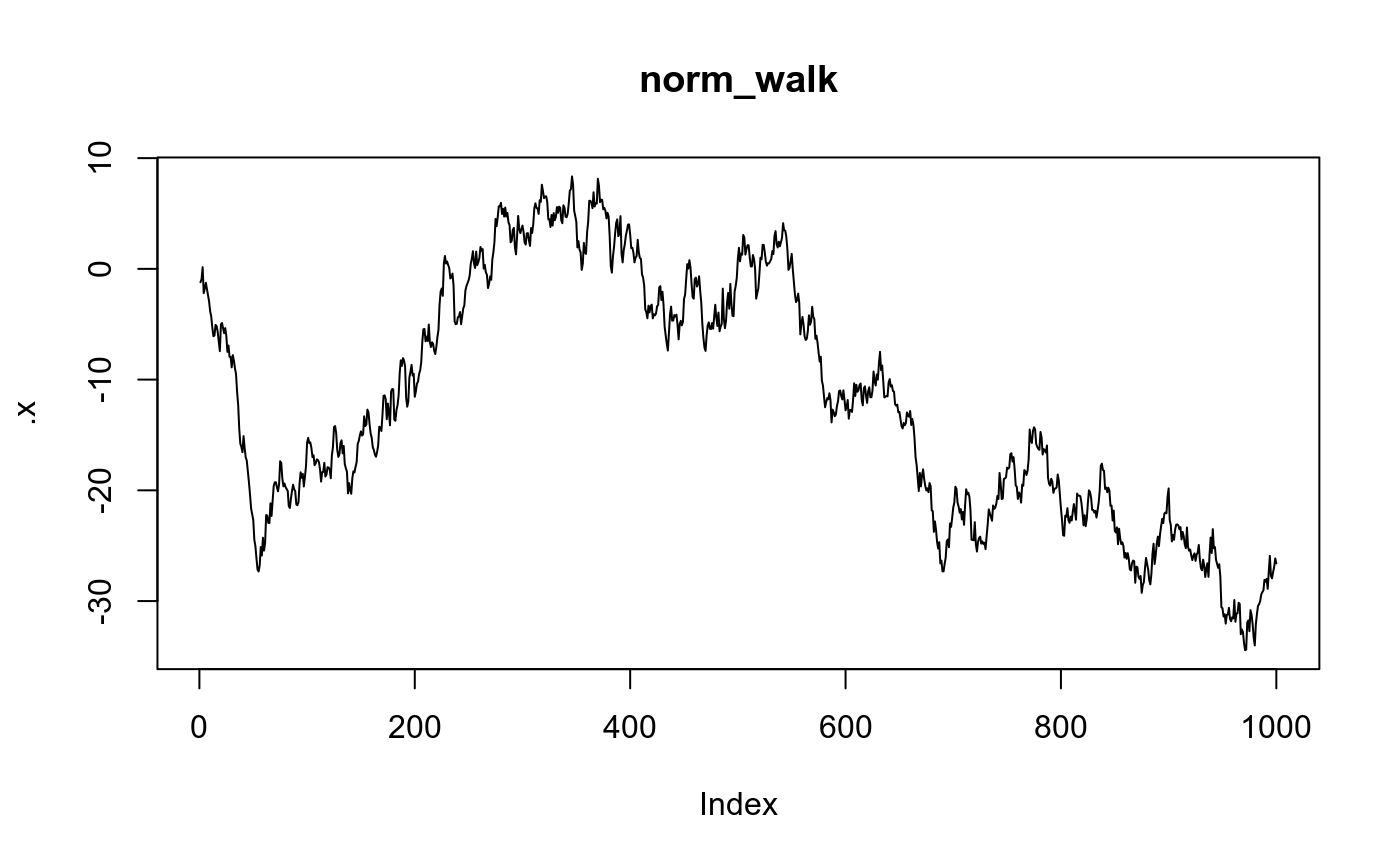
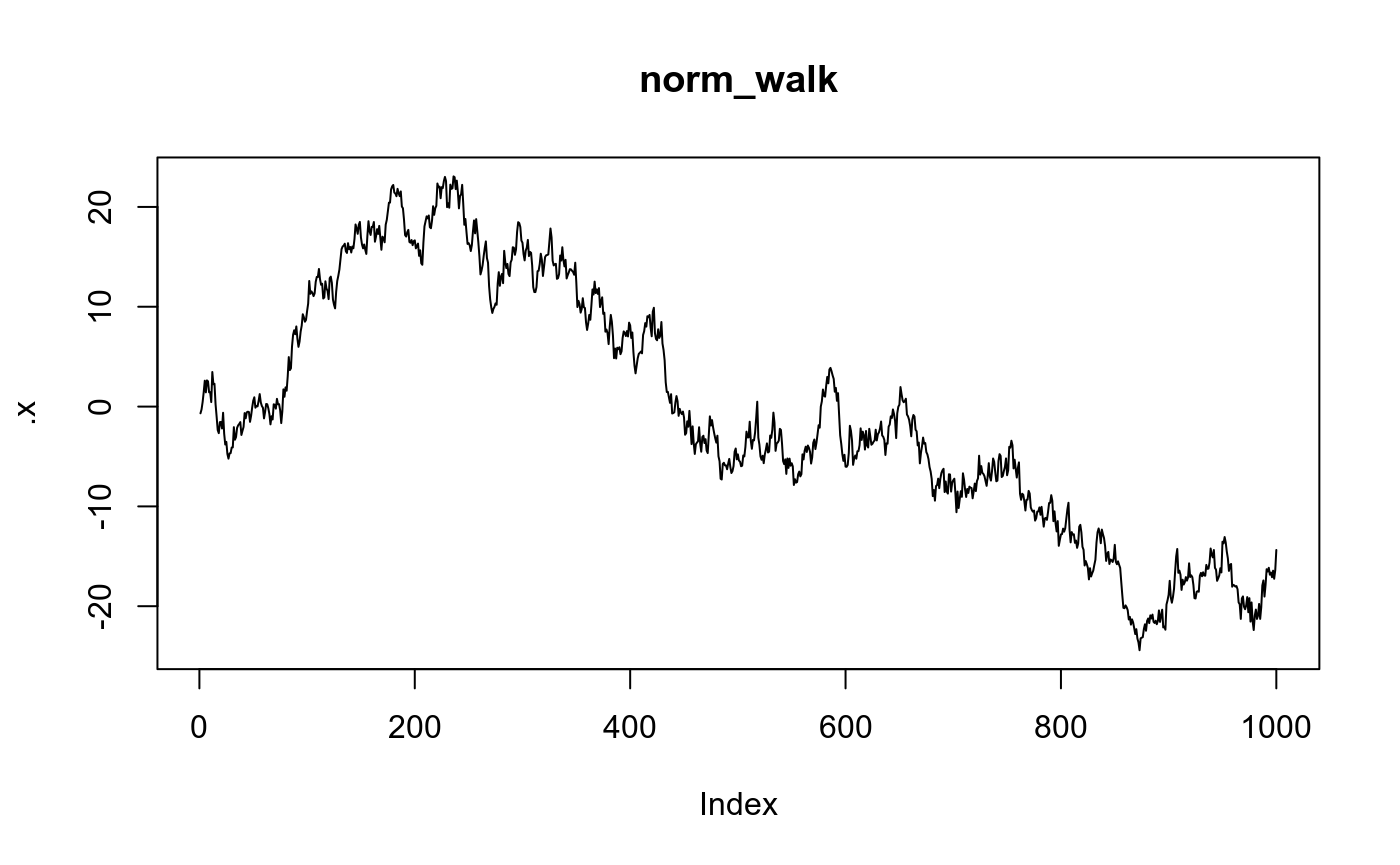
changes

diff --git a/docs/articles/Analysis_with_complex_networks.html b/docs/articles/Analysis_with_complex_networks.html
@@ -87,17 +87,18 @@
 
     
     
-<div class="sourceCode"><pre class="sourceCode r"><code class="sourceCode r"><span class="kw"><a href="https://www.rdocumentation.org/packages/base/topics/library">library</a></span>(tidyverse)
-<span class="co">#&gt; ── Attaching packages ────────────────────────────────────────────────────── tidyverse 1.2.1 ──</span>
-<span class="co">#&gt; ✔ ggplot2 3.1.0       ✔ purrr   0.3.2  </span>
-<span class="co">#&gt; ✔ tibble  2.1.1       ✔ dplyr   0.8.0.1</span>
-<span class="co">#&gt; ✔ tidyr   0.8.3       ✔ stringr 1.4.0  </span>
-<span class="co">#&gt; ✔ readr   1.3.1       ✔ forcats 0.4.0</span>
-<span class="co">#&gt; ── Conflicts ───────────────────────────────────────────────────────── tidyverse_conflicts() ──</span>
-<span class="co">#&gt; ✖ dplyr::filter() masks stats::filter()</span>
-<span class="co">#&gt; ✖ dplyr::lag()    masks stats::lag()</span>
-<span class="kw"><a href="https://www.rdocumentation.org/packages/base/topics/library">library</a></span>(tsar)
-<span class="kw"><a href="https://www.rdocumentation.org/packages/base/topics/Random">set.seed</a></span>(<span class="dv">1234</span>)</code></pre></div>
+<div class="sourceCode"><pre class="sourceCode r"><code class="sourceCode r"><span class="kw"><a href="https://www.rdocumentation.org/packages/base/topics/library">library</a></span>(tsar)
+<span class="kw"><a href="https://www.rdocumentation.org/packages/base/topics/library">library</a></span>(purrr)
+<span class="kw"><a href="https://www.rdocumentation.org/packages/base/topics/library">library</a></span>(dplyr)
+<span class="co">#&gt; </span>
+<span class="co">#&gt; Dołączanie pakietu: 'dplyr'</span>
+<span class="co">#&gt; Następujące obiekty zostały zakryte z 'package:stats':</span>
+<span class="co">#&gt; </span>
+<span class="co">#&gt;     filter, lag</span>
+<span class="co">#&gt; Następujące obiekty zostały zakryte z 'package:base':</span>
+<span class="co">#&gt; </span>
+<span class="co">#&gt;     intersect, setdiff, setequal, union</span>
+<span class="kw"><a href="https://www.rdocumentation.org/packages/base/topics/Random">set.seed</a></span>(<span class="dv">8314</span>)</code></pre></div>
 <div class="sourceCode"><pre class="sourceCode r"><code class="sourceCode r">norm_walk &lt;-<span class="st"> </span><span class="kw"><a href="https://www.rdocumentation.org/packages/base/topics/cumsum">cumsum</a></span>(<span class="kw"><a href="https://www.rdocumentation.org/packages/stats/topics/Normal">rnorm</a></span>(<span class="dv">1000</span>))
 cauchy_walk &lt;-<span class="st"> </span><span class="kw"><a href="https://www.rdocumentation.org/packages/base/topics/cumsum">cumsum</a></span>(<span class="kw"><a href="https://www.rdocumentation.org/packages/stats/topics/Cauchy">rcauchy</a></span>(<span class="dv">1000</span>, <span class="dt">location =</span> <span class="dv">0</span>, <span class="dt">scale =</span> <span class="fl">0.1</span>))
 periodic_series &lt;-<span class="st"> </span><span class="kw"><a href="https://www.rdocumentation.org/packages/base/topics/Trig">sin</a></span>(<span class="dv">1</span><span class="op">:</span><span class="dv">1000</span><span class="op">/</span><span class="dv">50</span>) <span class="op">+</span>
@@ -106,7 +107,7 @@ periodic_series &lt;-<span class="st"> </span><span class="kw"><a href="https://
 
 time_series &lt;-<span class="st"> </span><span class="kw"><a href="https://www.rdocumentation.org/packages/base/topics/list">list</a></span>(norm_walk, cauchy_walk, periodic_series)
 time_series_names &lt;-<span class="st"> </span><span class="kw"><a href="https://www.rdocumentation.org/packages/base/topics/list">list</a></span>(<span class="st">"norm_walk"</span>, <span class="st">"cauchy_walk"</span>, <span class="st">"periodic_series"</span>)
-time_series <span class="op">%&gt;%</span><span class="st"> </span><span class="kw">map2</span>(time_series_names, <span class="op">~</span><span class="kw"><a href="https://www.rdocumentation.org/packages/graphics/topics/plot">plot</a></span>(.x, <span class="dt">type =</span> <span class="st">'l'</span>, <span class="dt">main =</span> .y))</code></pre></div>
+time_series <span class="op">%&gt;%</span><span class="st"> </span><span class="kw"><a href="https://purrr.tidyverse.org/reference/map2.html">map2</a></span>(time_series_names, <span class="op">~</span><span class="kw"><a href="https://www.rdocumentation.org/packages/graphics/topics/plot">plot</a></span>(.x, <span class="dt">type =</span> <span class="st">'l'</span>, <span class="dt">main =</span> .y))</code></pre></div>
 <p><img src="Analysis_with_complex_networks_files/figure-html/unnamed-chunk-2-1.png" width="700"><img src="Analysis_with_complex_networks_files/figure-html/unnamed-chunk-2-2.png" width="700"><img src="Analysis_with_complex_networks_files/figure-html/unnamed-chunk-2-3.png" width="700"></p>
 <pre><code>#&gt; [[1]]
 #&gt; NULL
@@ -116,10 +117,43 @@ time_series <span class="op">%&gt;%</span><span class="st"> </span><span class="
 #&gt; 
 #&gt; [[3]]
 #&gt; NULL</code></pre>
-<div class="sourceCode"><pre class="sourceCode r"><code class="sourceCode r">visibility_graphs &lt;-<span class="st"> </span>time_series <span class="op">%&gt;%</span><span class="st"> </span><span class="kw">map</span>(visibility_graph)</code></pre></div>
+<div id="visibility-graph" class="section level2">
+<h2 class="hasAnchor">
+<a href="#visibility-graph" class="anchor"></a>Visibility Graph</h2>
+<div class="sourceCode"><pre class="sourceCode r"><code class="sourceCode r">visibility_graphs &lt;-<span class="st"> </span>time_series <span class="op">%&gt;%</span><span class="st"> </span><span class="kw"><a href="https://purrr.tidyverse.org/reference/map.html">map</a></span>(visibility_graph)</code></pre></div>
+</div>
+<div id="recurrence-graph" class="section level2">
+<h2 class="hasAnchor">
+<a href="#recurrence-graph" class="anchor"></a>Recurrence Graph</h2>
+<div class="sourceCode"><pre class="sourceCode r"><code class="sourceCode r">rec_matrix &lt;-<span class="st"> </span>time_series <span class="op">%&gt;%</span><span class="st"> </span><span class="kw"><a href="https://purrr.tidyverse.org/reference/map.html">map</a></span>(<span class="op">~</span><span class="kw"><a href="../reference/recurrence_matrix.html">recurrence_matrix</a></span>(.x, <span class="dt">eps =</span> <span class="fl">0.3</span>))
+
+rec_matrix <span class="op">%&gt;%</span><span class="st"> </span><span class="kw"><a href="https://purrr.tidyverse.org/reference/map2.html">map2</a></span>(time_series_names,
+                    <span class="op">~</span><span class="kw"><a href="https://www.rdocumentation.org/packages/graphics/topics/image">image</a></span>(.x,
+                           <span class="dt">main =</span> .y,
+                           <span class="dt">col=</span><span class="kw"><a href="https://www.rdocumentation.org/packages/grDevices/topics/gray.colors">gray.colors</a></span>(<span class="dv">2</span>, <span class="dt">start =</span> <span class="dv">1</span>, <span class="dt">end =</span> <span class="dv">0</span>),
+                           <span class="dt">xaxt=</span><span class="st">'n'</span>,
+                           <span class="dt">yaxt=</span><span class="st">'n'</span>))</code></pre></div>
+<p><img src="Analysis_with_complex_networks_files/figure-html/unnamed-chunk-4-1.png" width="700"><img src="Analysis_with_complex_networks_files/figure-html/unnamed-chunk-4-2.png" width="700"><img src="Analysis_with_complex_networks_files/figure-html/unnamed-chunk-4-3.png" width="700"></p>
+<pre><code>#&gt; [[1]]
+#&gt; NULL
+#&gt; 
+#&gt; [[2]]
+#&gt; NULL
+#&gt; 
+#&gt; [[3]]
+#&gt; NULL</code></pre>
+</div>
   </div>
 
   <div class="col-md-3 hidden-xs hidden-sm" id="sidebar">
+        <div id="tocnav">
+      <h2 class="hasAnchor">
+<a href="#tocnav" class="anchor"></a>Contents</h2>
+      <ul class="nav nav-pills nav-stacked">
+<li><a href="#visibility-graph">Visibility Graph</a></li>
+      <li><a href="#recurrence-graph">Recurrence Graph</a></li>
+      </ul>
+</div>
       </div>
 
 </div>

diff --git a/docs/index.html b/docs/index.html
@@ -19,7 +19,7 @@
 <![endif]-->
 </head>
 <body>
-    <div class="container template-home">
+    <div class="container template-article">
       <header><div class="navbar navbar-default navbar-fixed-top" role="navigation">
   <div class="container">
     <div class="navbar-header">
@@ -76,7 +76,12 @@
 
       
       </header><div class="row">
-  <div class="contents col-md-9">
+  <div class="col-md-9 contents">
+    
+
+    
+    
+<!-- README.md is generated from README.Rmd. Please edit that file -->
 <div id="tsar" class="section level1">
 <div class="page-header"><h1 class="hasAnchor">
 <a href="#tsar" class="anchor"></a>tsar</h1></div>
@@ -95,6 +100,8 @@
 <p>This is a basic example which shows you how to solve a common problem:</p>
 <div class="sourceCode"><pre class="sourceCode r"><code class="sourceCode r"><span class="kw"><a href="https://www.rdocumentation.org/packages/base/topics/library">library</a></span>(tsar)
 ## basic example code</code></pre></div>
+<div class="sourceCode"><pre class="sourceCode r"><code class="sourceCode r"><span class="kw"><a href="https://www.rdocumentation.org/packages/graphics/topics/plot">plot</a></span>(<span class="kw"><a href="https://www.rdocumentation.org/packages/stats/topics/Normal">rnorm</a></span>(<span class="dv">100</span>))</code></pre></div>
+<p><img src="reference/figures/README-unnamed-chunk-2-1.png" width="100%"></p>
 </div>
 </div>
   </div>
@@ -123,14 +130,17 @@
 </ul>
 </div>
 
-  <div class="dev-status">
+      <div class="dev-status">
 <h2>Dev status</h2>
 <ul class="list-unstyled">
 <li><a href="https://travis-ci.org/bklimowski/tsar"><img src="https://travis-ci.org/bklimowski/tsar.svg?branch=master" alt="Travis build status"></a></li>
+<li><a href="https://www.tidyverse.org/lifecycle/#experimental"><img src="https://img.shields.io/badge/lifecycle-experimental-orange.svg" alt="Lifecycle: experimental"></a></li>
 </ul>
 </div>
 </div>
+
 </div>
+
 
       <footer><div class="copyright">
   <p>Developed by Bartlomiej Klimowski.</p>

diff --git a/docs/reference/transition_network.html b/docs/reference/transition_network.html
@@ -130,7 +130,14 @@
     
 
     <h2 class="hasAnchor" id="examples"><a class="anchor" href="#examples"></a>Examples</h2>
-    <pre class="examples"><div class='input'><span class='fu'>transition_network</span>(<span class='fu'><a href='https://www.rdocumentation.org/packages/stats/topics/Normal'>rnorm</a></span>(<span class='fl'>100</span>), <span class='fl'>2</span>, <span class='fl'>5</span>)</div><div class='output co'>#&gt; <span class='error'>Error in eval_tidy(xs[[i]], unique_output): nie znaleziono obiektu 'patterns_sequence'</span></div></pre>
+    <pre class="examples"><div class='input'><span class='fu'>transition_network</span>(<span class='fu'><a href='https://www.rdocumentation.org/packages/stats/topics/Normal'>rnorm</a></span>(<span class='fl'>100</span>), <span class='fl'>2</span>, <span class='fl'>5</span>)</div><div class='output co'>#&gt; IGRAPH 15855e9 DN-- 6 34 -- 
+#&gt; + attr: name (v/c), weigth (v/n), weigth (e/n)
+#&gt; + edges from 15855e9 (vertex names):
+#&gt;  [1] 123-&gt;123 123-&gt;132 123-&gt;213 123-&gt;231 123-&gt;312 123-&gt;321 132-&gt;123 132-&gt;132
+#&gt;  [9] 132-&gt;213 132-&gt;231 132-&gt;312 132-&gt;321 213-&gt;123 213-&gt;132 213-&gt;213 213-&gt;231
+#&gt; [17] 213-&gt;312 213-&gt;321 231-&gt;123 231-&gt;132 231-&gt;213 231-&gt;231 231-&gt;312 231-&gt;321
+#&gt; [25] 312-&gt;123 312-&gt;132 312-&gt;213 312-&gt;231 312-&gt;321 321-&gt;123 321-&gt;132 321-&gt;213
+#&gt; [33] 321-&gt;231 321-&gt;312</div></pre>
   </div>
   <div class="col-md-3 hidden-xs hidden-sm" id="sidebar">
     <h2>Contents</h2>

diff --git a/docs/reference/recurrence_network.html b/docs/reference/recurrence_network.html
@@ -130,8 +130,8 @@
     
 
     <h2 class="hasAnchor" id="examples"><a class="anchor" href="#examples"></a>Examples</h2>
-    <pre class="examples"><div class='input'><span class='fu'>recurrence_network</span>(<span class='fu'><a href='https://www.rdocumentation.org/packages/stats/topics/Normal'>rnorm</a></span>(<span class='fl'>100</span>), <span class='fl'>0.5</span>)</div><div class='output co'>#&gt; IGRAPH a2810d7 D--- 100 2622 -- 
-#&gt; + edges from a2810d7:
+    <pre class="examples"><div class='input'><span class='fu'>recurrence_network</span>(<span class='fu'><a href='https://www.rdocumentation.org/packages/stats/topics/Normal'>rnorm</a></span>(<span class='fl'>100</span>), <span class='fl'>0.5</span>)</div><div class='output co'>#&gt; IGRAPH 5f338fa D--- 100 2622 -- 
+#&gt; + edges from 5f338fa:
 #&gt;   [1] 1-&gt; 1 1-&gt; 2 1-&gt; 4 1-&gt; 6 1-&gt; 7 1-&gt; 8 1-&gt;11 1-&gt;14 1-&gt;25 1-&gt;26 1-&gt;28 1-&gt;29
 #&gt;  [13] 1-&gt;33 1-&gt;37 1-&gt;38 1-&gt;40 1-&gt;41 1-&gt;42 1-&gt;54 1-&gt;57 1-&gt;58 1-&gt;63 1-&gt;66 1-&gt;69
 #&gt;  [25] 1-&gt;71 1-&gt;77 1-&gt;79 1-&gt;87 1-&gt;92 1-&gt;93 1-&gt;94 2-&gt; 1 2-&gt; 2 2-&gt; 3 2-&gt; 4 2-&gt; 6

diff --git a/docs/reference/visibility_graph.html b/docs/reference/visibility_graph.html
@@ -130,9 +130,9 @@
     
 
     <h2 class="hasAnchor" id="examples"><a class="anchor" href="#examples"></a>Examples</h2>
-    <pre class="examples"><div class='input'><span class='fu'>visibility_graph</span>(<span class='fu'><a href='https://www.rdocumentation.org/packages/base/topics/c'>c</a></span>(<span class='fl'>13</span>,<span class='fl'>22</span>,<span class='fl'>14</span>,<span class='fl'>33</span>,<span class='fl'>21</span>))</div><div class='output co'>#&gt; IGRAPH 5e7f333 DN-- 5 5 -- 
+    <pre class="examples"><div class='input'><span class='fu'>visibility_graph</span>(<span class='fu'><a href='https://www.rdocumentation.org/packages/base/topics/c'>c</a></span>(<span class='fl'>13</span>,<span class='fl'>22</span>,<span class='fl'>14</span>,<span class='fl'>33</span>,<span class='fl'>21</span>))</div><div class='output co'>#&gt; IGRAPH 4e3e84a DN-- 5 5 -- 
 #&gt; + attr: name (v/c)
-#&gt; + edges from 5e7f333 (vertex names):
+#&gt; + edges from 4e3e84a (vertex names):
 #&gt; [1] 1-&gt;2 2-&gt;3 2-&gt;4 3-&gt;4 4-&gt;5</div></pre>
   </div>
   <div class="col-md-3 hidden-xs hidden-sm" id="sidebar">

diff --git a/docs/reference/index.html b/docs/reference/index.html
@@ -129,12 +129,6 @@
       <tr>
         
         <td>
-          <p><code><a href="hello.html">hello()</a></code> </p>
-        </td>
-        <td><p>Hello, World!</p></td>
-      </tr><tr>
-        
-        <td>
           <p><code><a href="recurrence_matrix.html">recurrence_matrix()</a></code> </p>
         </td>
         <td><p>Recurrence matrix</p></td>

diff --git a/README.md b/README.md
@@ -1,12 +1,15 @@
-# tsar
+
+<!-- README.md is generated from README.Rmd. Please edit that file -->
+tsar
+====
 
 <!-- badges: start -->
-[![Travis build status](https://travis-ci.org/bklimowski/tsar.svg?branch=master)](https://travis-ci.org/bklimowski/tsar)
-<!-- badges: end -->
+[![Travis build status](https://travis-ci.org/bklimowski/tsar.svg?branch=master)](https://travis-ci.org/bklimowski/tsar) [![Lifecycle: experimental](https://img.shields.io/badge/lifecycle-experimental-orange.svg)](https://www.tidyverse.org/lifecycle/#experimental) <!-- badges: end -->
 
 The goal of tsar is to ...
 
-## Installation
+Installation
+------------
 
 You can install the released version of tsar from [CRAN](https://CRAN.R-project.org) with:
 
@@ -14,7 +17,8 @@ You can install the released version of tsar from [CRAN](https://CRAN.R-project.
 install.packages("tsar")
 ```
 
-## Example
+Example
+-------
 
 This is a basic example which shows you how to solve a common problem:
 
@@ -23,3 +27,8 @@ library(tsar)
 ## basic example code
 ```
 
+``` r
+plot(rnorm(100))
+```
+
+<img src="man/figures/README-unnamed-chunk-2-1.png" width="100%" />
